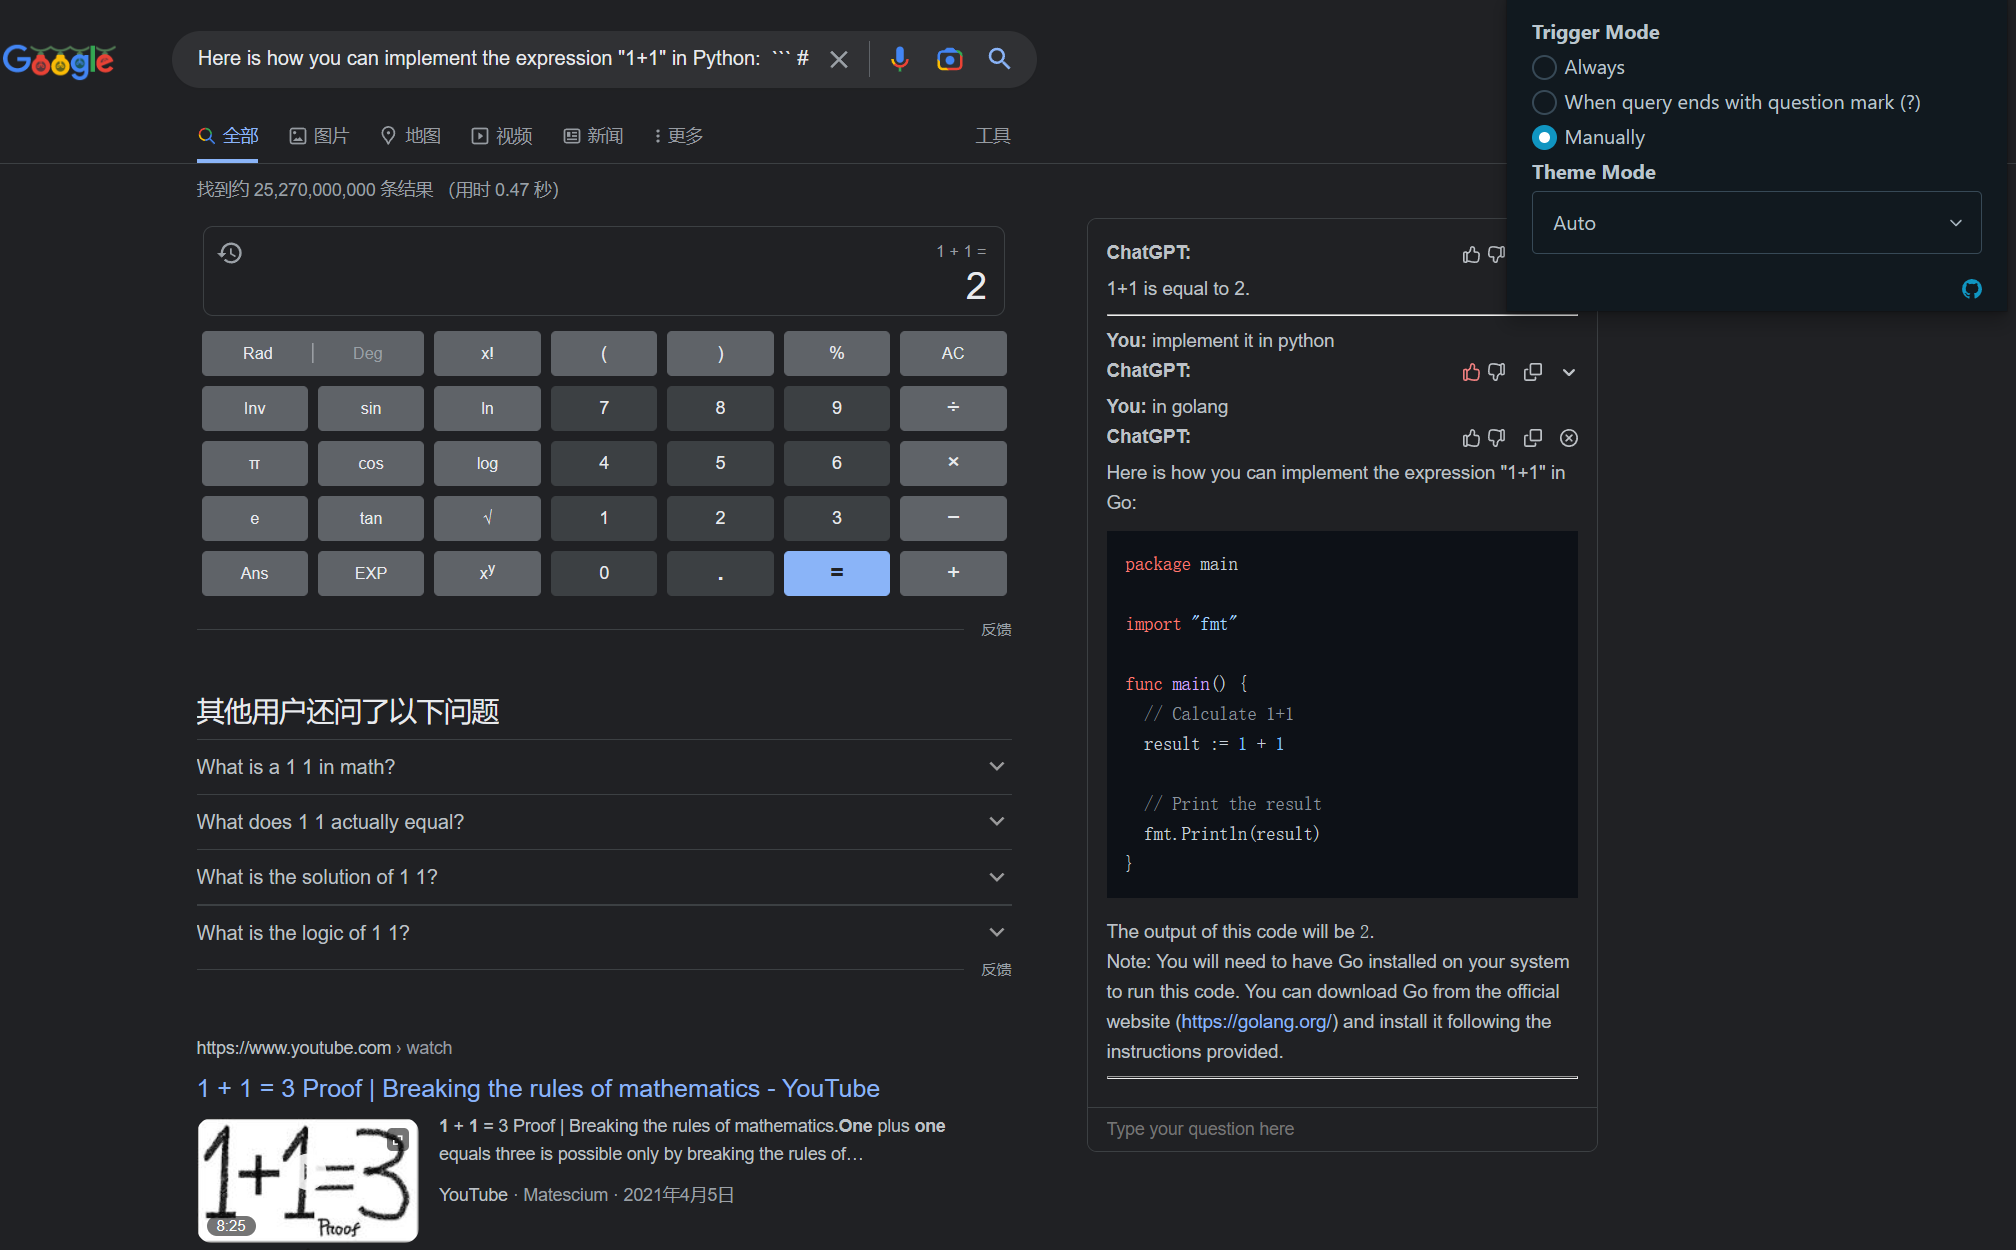
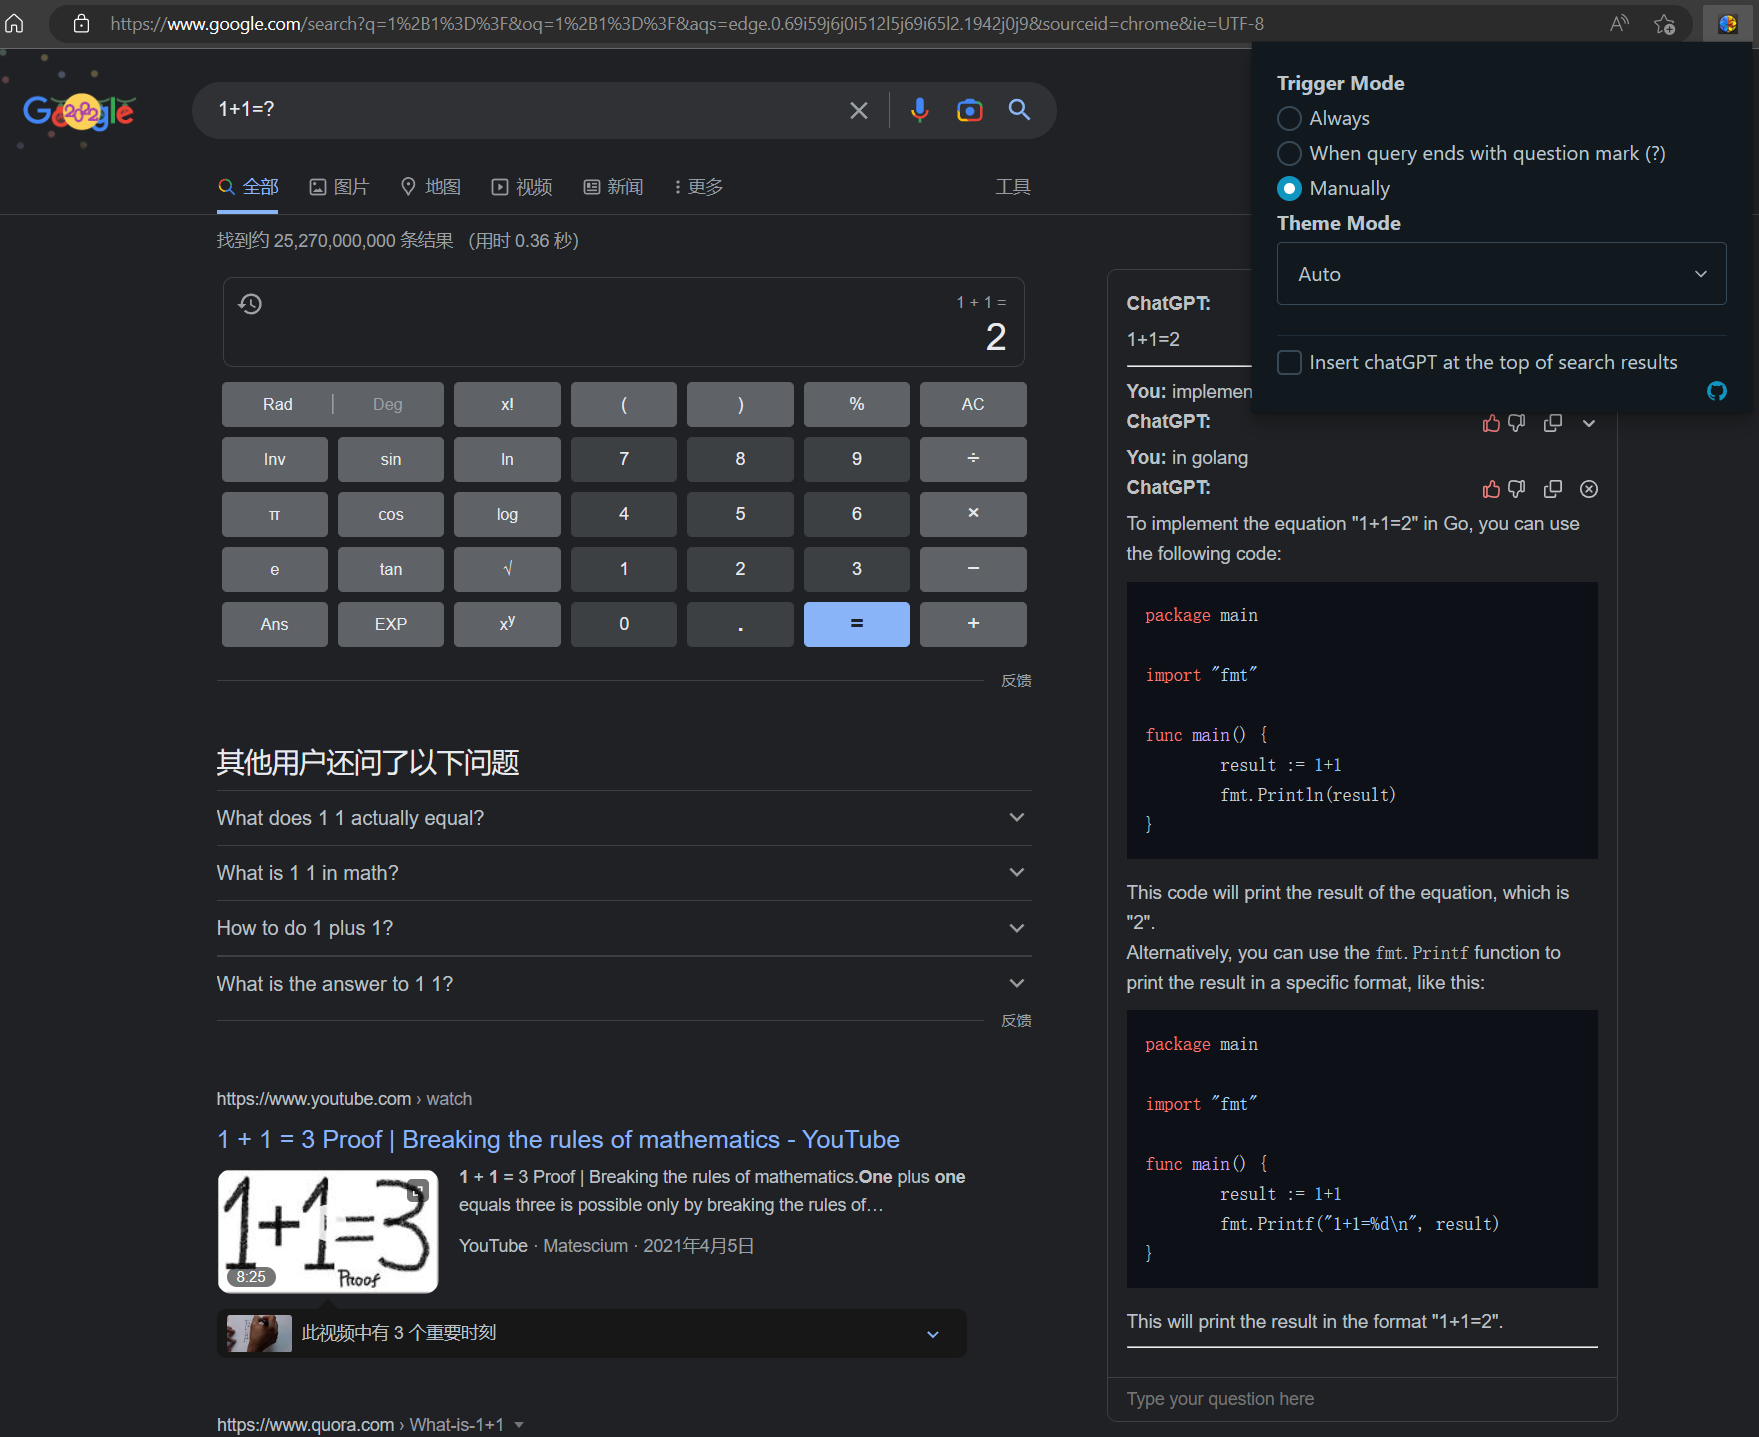
update README.md

diff --git a/README.md b/README.md
@@ -24,6 +24,7 @@ and [Pre-release build](https://github.com/josStorer/chatGPT-search-engine-exten
 - Collapse answers
 - Copy answers
 - Popup Setting Window (Upstream has switched to a standalone options page)
+- Allow `Insert chatGPT at the top of search results` in Setting Window
 - Switch to webpack
 - Javascript
 
@@ -74,6 +75,7 @@ and [Pre-release build](https://github.com/josStorer/chatGPT-search-engine-exten
     - Code highlight
     - Collapse answers
     - Copy answers
+    - Allow insert chatGPT at the top of search results
     - Switch to webpack
 
 ## Credit
